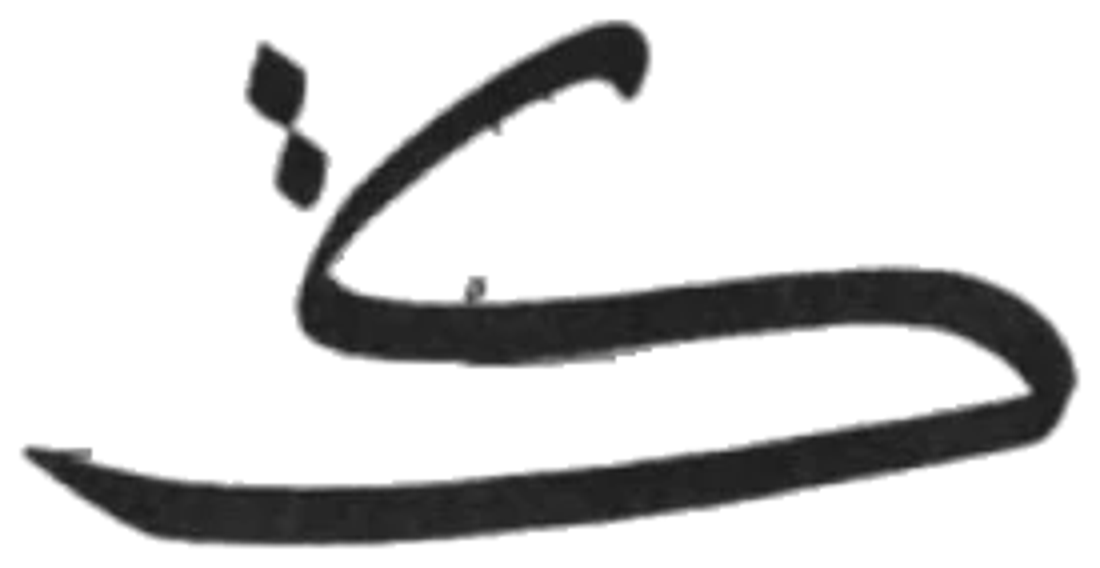
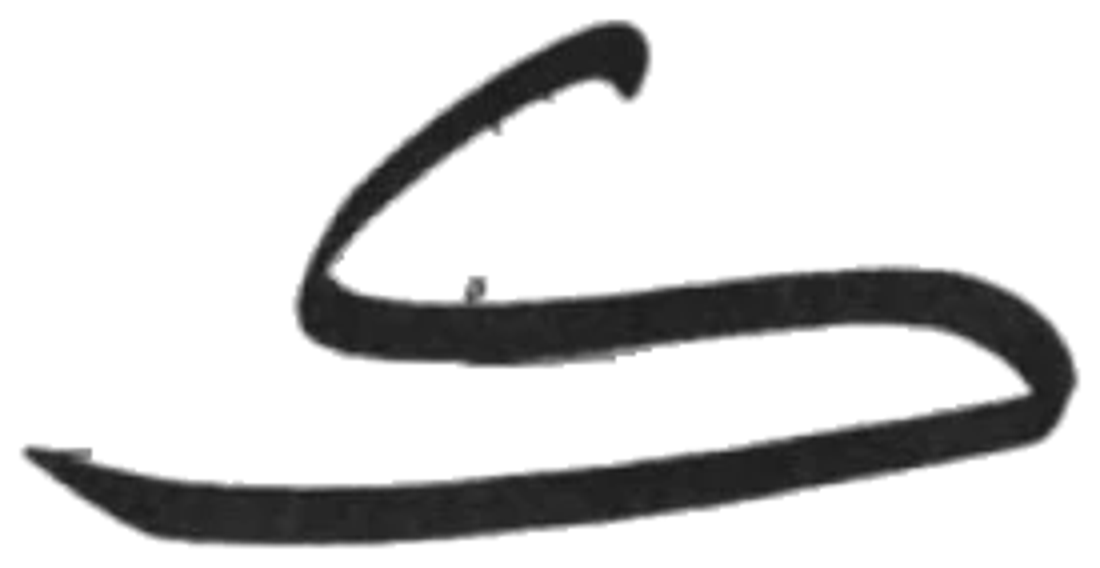
Sheet 2: erase the kaf's stray blobs; mark the ha and the sad as waiting
An erase entry can now be a point, which removes the separate bit of the
piece it lands on. The standalone ha is left for the user to touch up by
hand; the standalone sad is incomplete until a later tracing supplies its
tail.

Claude-Session: https://claude.ai/code/session_01XKSn9LffW5ruEBSXbs53N4

Changed region(s): [[0.2164, 0.0599, 0.3091, 0.3891]]

diff --git a/scripts/marks/thuluth/review.py b/scripts/marks/thuluth/review.py
@@ -32,8 +32,9 @@ SHEETS = {
     28: ("و waw tail (body without the head), measuring nuqtas", (866,818,990,930)), 29: ("ر ra body, a different form from 7 (measuring nuqtas)", (694,828,830,936)), 30: ("ن nun, the clean shape (6 is its construction)", (516,818,654,930)),
     31: ("ى/ي ya, three forms", (38,762,482,938)),
   }, "splits": {},
-  # Per piece, source-px boxes (x0, y0, x1, y1) erased from that piece only:
-  # leftovers the cleaner can't tell from ink. 3: the end of a guide line
+  # Per piece, what to erase from that piece only (leftovers the cleaner
+  # can't tell from ink): a source-px box (x0, y0, x1, y1), or a point (x, y)
+  # that removes the whole separate bit it lands on. 3: the end of a guide line
   # touching the right side of the kaf's barb (the user, 2026-10-17).
   "erase": {3: [(1444, 205, 1450, 221)]}},
   "t2": {"file": "../thuluth-2.webp", "dot": 15, "units": {
@@ -49,7 +50,11 @@ SHEETS = {
     21: ("ع", (1167,598,1314,820)), 22: ("ع wrapped", (1010,620,1145,830)), 23: ("صـ start", (869,693,968,766)),
     24: ("ص standalone", (690,640,840,820)), 25: ("ط", (543,587,690,800)), 26: ("ف fa without dots", (350,675,508,792)),
     27: ("ق without dots", (180,695,325,808)), 28: ("و", (48,694,148,798)),
-  }, "splits": {
+  },
+  # 3: the two blobs above the kaf's start are not part of the letter (the
+  # user, 2026-10-17); a point picks out that separate bit.
+  "erase": {3: [(918, 130)]},
+  "splits": {
     # ص's tail runs into ط's base: the loop and the low tail are the ص.
     (542, 586): (24, 25, lambda xs, ys: (xs >= 700) | ((ys >= 768) & (xs >= 595))),
   }},
@@ -77,9 +82,16 @@ def clean_sheet(path, dot):
 
 def assign(clean, units, splits, erase=None):
     sel = _assign(clean, units, splits)
-    for k, boxes in (erase or {}).items():
-        if k in sel:
-            for x0, y0, x1, y1 in boxes: sel[k][y0:y1, x0:x1] = False
+    for k, items in (erase or {}).items():
+        if k not in sel: continue
+        for it in items:
+            if len(it) == 2:   # a point: drop the separate bit of this piece that holds it
+                n, lab = cv2.connectedComponents(sel[k].astype(np.uint8), connectivity=8)
+                i = lab[it[1], it[0]]
+                assert i > 0, (k, it, "point is not on the piece")
+                sel[k][lab == i] = False
+            else:              # a box: clear every pixel of this piece inside it
+                x0, y0, x1, y1 = it; sel[k][y0:y1, x0:x1] = False
     return sel
 
 def _assign(clean, units, splits):

diff --git a/scripts/marks/thuluth/REVIEW.md b/scripts/marks/thuluth/REVIEW.md
@@ -87,9 +87,9 @@ across the stroke), so the same scale: 3.0 units per source px.
 
 | # | name | status |
 |---|---|---|
-| 1 | ح standalone | traced 2026-10-17; nearly clean: a thin bit of guide line on top of the head |
+| 1 | ح standalone | traced 2026-10-17; **for the user to touch up by hand later** (needs more cleanup than the thin bit of guide line on top of the head) |
 | 2 | ح ج خ shared stroke | traced 2026-10-17, clean; **awaiting approval** |
-| 3 | ك zinadi, standalone | traced 2026-10-17; **needs a look**: two blobs above the start (measuring nuqta or part of the letter?) and a tick on the upper stroke |
+| 3 | ك zinadi, standalone | traced 2026-10-17; the two blobs above the start are **not part of the letter** (the user) and are erased (`erase` in `review.py`). Stroke numbers on the sheet: 1 at the upper stroke with an arrow along it, 2 along the middle stroke. **Open question**: a small tick inside the upper stroke near where the second arrow points (probably arrow residue) |
 | 4 | ب long, standalone and final | traced 2026-10-17; cleanup (baseline bits) |
 | 5 | ح almond | traced 2026-10-17; cleanup (dots, line) |
 | 6 | ح almond, small | traced 2026-10-17; needs cleanup: a drip under the base (a stroke number touching it) |
@@ -110,7 +110,7 @@ across the stroke), so the same scale: 3.0 units per source px.
 | 21 | ع (dots on top are measurement) | traced 2026-10-17; cleanup (dots, side line) |
 | 22 | ع wrapped | traced 2026-10-17; cleanup (construction lines in the head) |
 | 23 | صـ start | traced 2026-10-17, clean; **awaiting approval** (the small tick hanging at the left is in the scan: the tooth?) |
-| 24 | ص standalone (tail split from the ط) | traced 2026-10-17, clean; **awaiting approval** |
+| 24 | ص standalone (tail split from the ط) | traced 2026-10-17; **incomplete**: the tail is cut off where it ran into the ط on the original. Borrow a tail from a later tracing of the same form |
 | 25 | ط | traced 2026-10-17; cleanup (stub at the bottom) |
 | 26 | ف fa without dots (the user, 2026-10-16) | traced 2026-10-17; cleanup (dots) |
 | 27 | ق without dots | traced 2026-10-17; needs cleanup: a mark left inside the head at the join |
@@ -940,6 +940,13 @@ code. Each traced piece is saved, cleaned and enlarged 4x, as
 white to erase and black to add, and saves. From then on the piece is traced
 from that file, not the scan, and the file is never overwritten. To start a
 piece over, delete its file and re-run `tracePieces.py`.
+
+## Waiting on something
+
+- **For the user to touch up by hand later**: t1 3 (kaf: barb and tail tip
+  to match the alif's barb and the other tails), t2 1 (standalone ha).
+- **Incomplete, borrow from a later tracing**: t2 24 (standalone sad, tail
+  cut off where it ran into the ط).
 
 ## In the app's mark library
 
